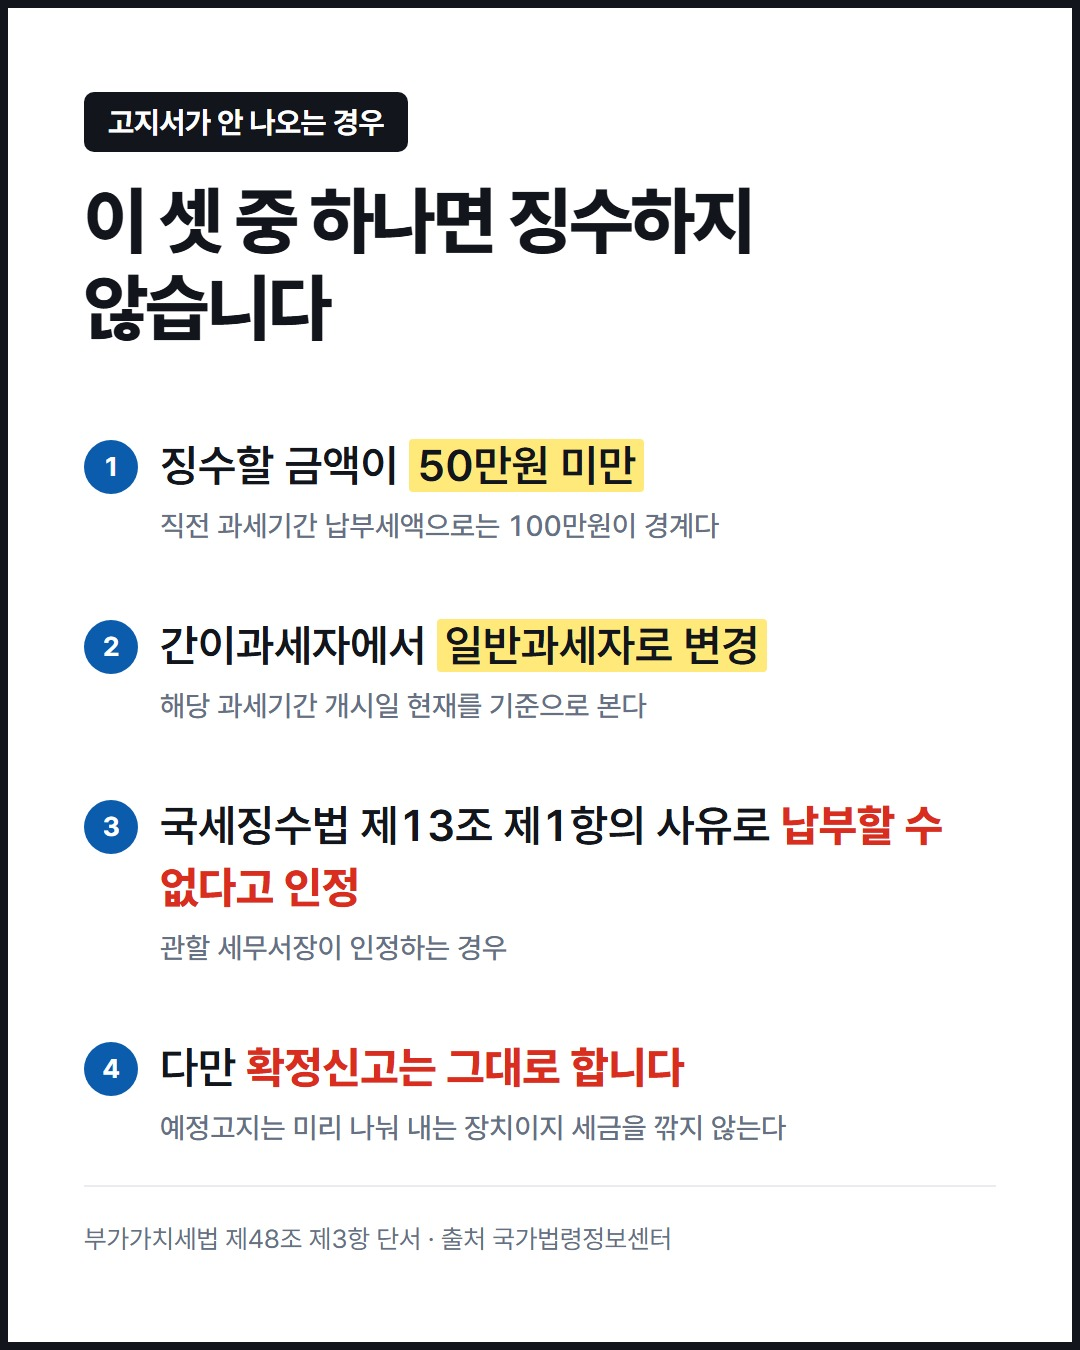
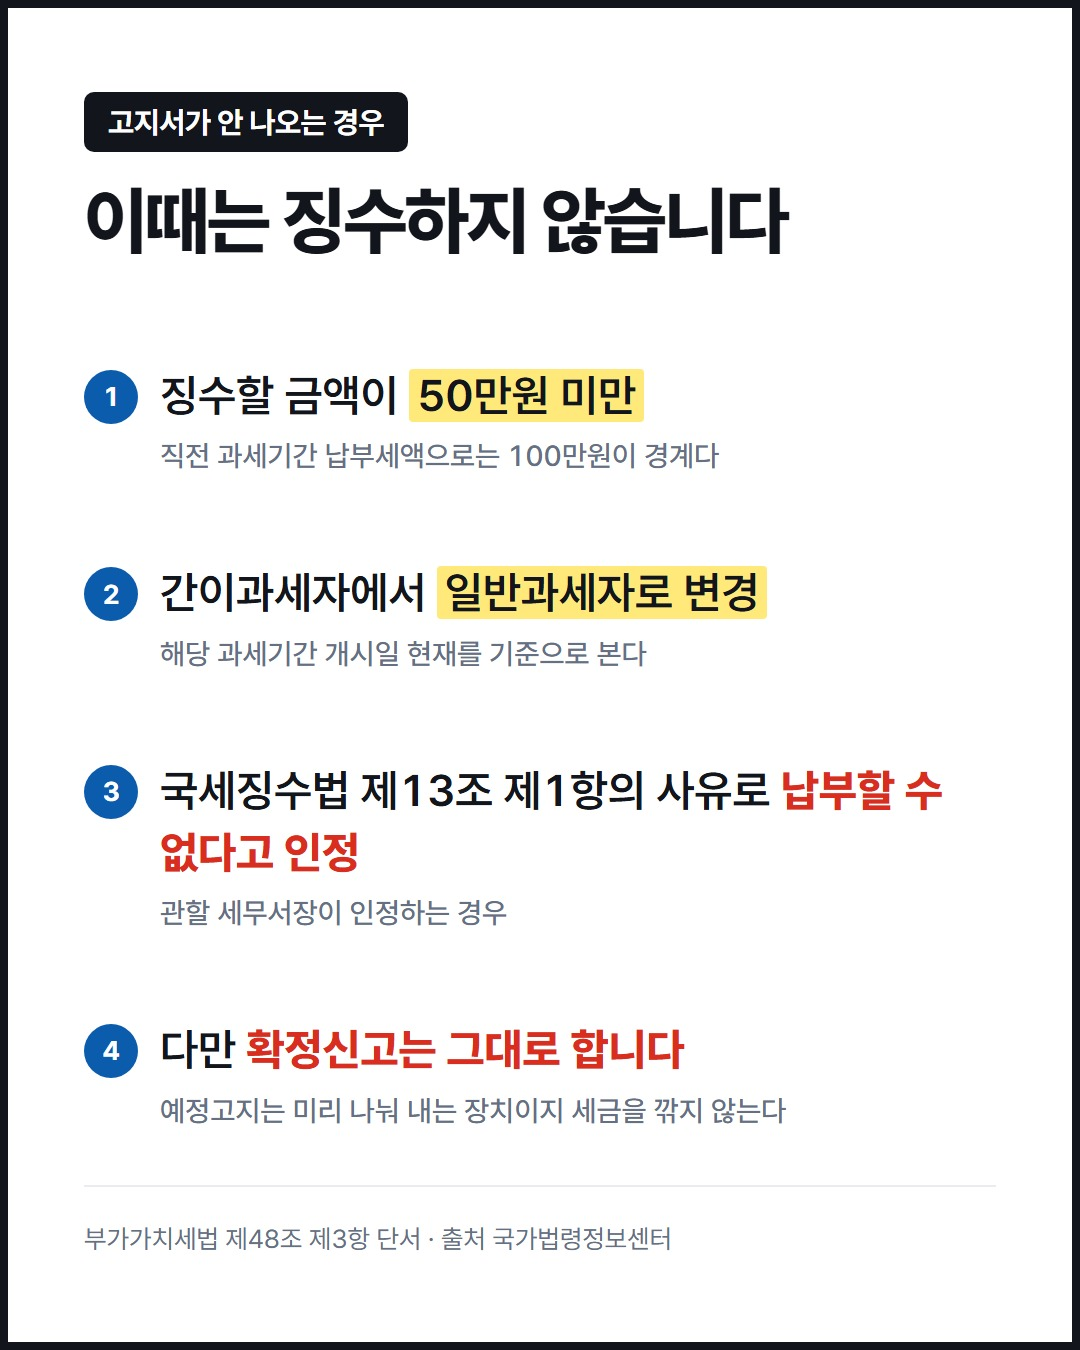
fix: 064 의 "반토막" 은 3분의 1 미달이 아니다
스토리 초안이 "하반기 매출이 반토막" 이라고 써 놓고 시행령 제90조
제6항 제1호(3분의 1 미달)에 해당하는 것처럼 이었다. 2분의 1 은 3분의 1
아래가 아니다 — 요건에 못 미치는 독자를 갈아타게 만드는 문장이었다.

story-numbers 테스트가 이걸 못 잡은 이유는 noticeAmount 와 oneThirdLine
두 값만 보고 사례가 그 선을 넘는지는 안 봤기 때문이다. 이미 export 해
둔 qualifiesBySlump 로 양쪽(120만 통과 / 210만 탈락)을 박았다.

같이 고친 둘:
- 카드 4번이 "이 셋 중 하나면" 인데 항목이 4개였다 → "이때는"
- 065 의 "고지서가 늦게 왔다고 기한이 미뤄지지 않습니다" 는 조문에
  없는 추론이라 뺐다. 시행령 제90조 제5항은 발부 의무만 정한다

Changed region(s): [[0.0611, 0.1244, 0.7333, 0.5289], [0.0611, 0.56, 0.8861, 0.7156], [0.0611, 0.7467, 0.7333, 0.84]]

diff --git a/src/lib/__tests__/story-numbers.test.ts b/src/lib/__tests__/story-numbers.test.ts
@@ -12,7 +12,7 @@ import { describe, it, expect } from "vitest";
 import { computeGift, taxFreeCeiling } from "../gift";
 import { taxSaved } from "../deduction";
 import { isPaymentExempt } from "../vat";
-import { noticeAmount, oneThirdLine } from "../vat-prepay";
+import { noticeAmount, oneThirdLine, qualifiesBySlump } from "../vat-prepay";
 
 describe("스토리 001 — 1년 차이로 갈린 증여세", () => {
   /*
@@ -109,5 +109,18 @@ describe("스토리 007 — 매출이 꺾였는데 고지서는 그대로", () =
 
   it("3분의 1 선은 140만원이다", () => {
     expect(oneThirdLine(4_200_000)).toBe(1_400_000);
+  });
+
+  it("사례의 120만원은 그 선 아래다 — 전환이 된다", () => {
+    expect(qualifiesBySlump(4_200_000, 1_200_000)).toBe(true);
+  });
+
+  /*
+   * 처음 쓴 초안이 "매출이 반토막" 이었다. 반토막은 2분의 1이라
+   * 3분의 1 미달이 아니다 — 요건에 해당하지 않는 사람을 해당하는 것처럼
+   * 읽히게 만든다. 스토리에서 가장 새기 쉬운 곳이 이런 어림말이다.
+   */
+  it("반토막(210만원)으로는 모자란다", () => {
+    expect(qualifiesBySlump(4_200_000, 2_100_000)).toBe(false);
   });
 });

diff --git a/src/data/cards.ts b/src/data/cards.ts
@@ -961,7 +961,7 @@ export const cardSets: CardSet[] = [
       {
         kind: "list",
         badge: "고지서가 안 나오는 경우",
-        title: "이 셋 중 하나면 징수하지 않습니다",
+        title: "이때는 징수하지 않습니다",
         items: [
           {
             text: "징수할 금액이 [[50만원 미만]]",

diff --git a/social/queue/064-prepay-one-third.md b/social/queue/064-prepay-one-third.md
@@ -7,10 +7,10 @@ reply: 예정신고를 하면 제48조 제3항의 고지 결정은 없었던 것
 상반기에 부가세 420만원을 냈다.
 
 10월 고지서에 210만원이 찍혔다.
-그런데 하반기 매출이 반토막이 났다.
+그런데 하반기 납부세액은 120만원이었다.
 
-직전의 3분의 1에 미달하면
+직전의 3분의 1인 140만원에 미달한다.
 고지서를 덮고 예정신고로 바꿔
 실제 금액만 낼 수 있다.
 
-※ 가상 사례입니다. 3분의 1 선은 140만원입니다.
+※ 가상 사례입니다. 반토막으로는 모자랍니다 — 3분의 1 아래여야 합니다.

diff --git a/social/queue/065-prepay-october-dates.md b/social/queue/065-prepay-october-dates.md
@@ -9,7 +9,7 @@ reply: 예정신고기간은 법 제48조 제1항 표, 고지서 발부기간은
 고지서 발부는 10월 1일부터 10일까지.
 납부는 10월 25일까지.
 
-두 날짜가 다른 법령에 따로 적혀 있어
-고지서가 10일에 와도 기한은 25일입니다.
+예정신고기간은 법에, 발부기간은 시행령에
+따로 적혀 있습니다.
 
-고지서가 늦게 왔다고 기한이 미뤄지지 않습니다.
+고지서가 10일에 와도 기한은 25일입니다.
